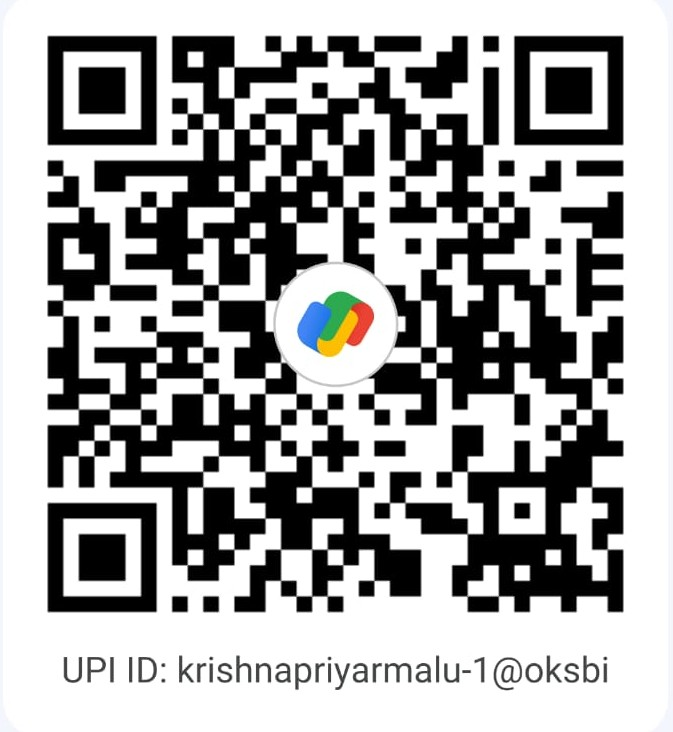
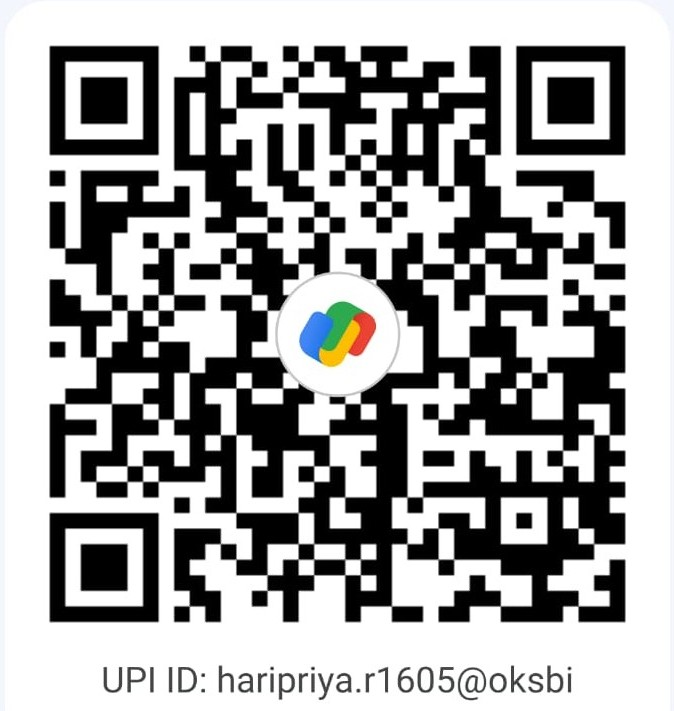
chore(membership) details updated

diff --git a/membership2025.html b/membership2025.html
@@ -40,8 +40,8 @@
 <body>
   <!-- bg animated dots -->
   <div style="z-index: 0">
-    <div class="starsec"></div>
-    <div class="starthird"></div>
+    <!-- <div class="starsec"></div> -->
+    <!-- <div class="starthird"></div> -->
     <div class="starfourth"></div>
     <div class="starfifth"></div>
   </div>
@@ -388,39 +388,43 @@
                   </h2>
                   <p style="font-size: 1.2em">
                     Account holder name:
-                    <span onclick="copyText(this)" style="cursor: pointer; user-select: all; font: inherit">Krishnapriya
-                      R</span><br />
+                    <span onclick="copyText(this)" style="cursor: pointer; user-select: all; font: inherit">Haripriya R</span><br />
                     IFSC code:
                     <span onclick="copyText(this)"
-                      style="cursor: pointer; user-select: all; font: inherit">SBIN0070259</span><br />
+                      style="cursor: pointer; user-select: all; font: inherit">SBIN0070547</span><br />
                     Account number:
                     <span onclick="copyText(this)"
-                      style="cursor: pointer; user-select: all; font: inherit">44148248108</span><br />
+                      style="cursor: pointer; user-select: all; font: inherit">40588254527</span><br />
                     UPI ID:
                     <span onclick="copyText(this)"
-                      style="cursor: pointer; user-select: all; font: inherit">krishnapriyarmalu-1@okicici</span>
+                      style="cursor: pointer; user-select: all; font: inherit">haripriya.r1605@oksbi</span>
                   </p>
 
                   <div class="qr-container">
-                    <button type="button" class="qr-toggle-btn" id="qrToggleBtn">Show QR Code </button>
+                    <button type="button" class="qr-toggle-btn" id="qrToggleBtn">Show QR Code</button>
+                  
                     <div class="qr-section" id="qrSection">
                       <div class="qr-card">
-                        <img src="assets/img/qr-code-for-membership.jpg" alt="payment QR" id="qrImage" class="qr-code">
+                  
+                        <!-- Added a wrapper to keep the QR code background white for easy scanning -->
+                        <div class="qr-code-wrapper">
+                          <img src="assets/img/qr-code-for-membership.jpg" alt="Payment QR" id="qrImage" class="qr-code">
+                        </div>
+                  
                         <div class="qr-actions">
-                          <button type="button" class="share-btn" id="shareBtn">
-                            <span></span>
-                            <img src="https://cdn-icons-png.flaticon.com/128/929/929610.png" width="24px" height="24px"
-                              alt="Share Icon">
+                          <button type="button" class="action-btn share-btn" id="shareBtn" title="Share QR">
+                            <img src="https://cdn-icons-png.flaticon.com/128/929/929610.png" alt="Share Icon">
                           </button>
-                          <button type="button" class="download-btn" id="downloadBtn">
-                            <span></span>
-                            <img src="https://cdn-icons-png.flaticon.com/64/724/724933.png" width="24px" height="24px"
-                              alt="Download Icon">
+                          <button type="button" class="action-btn download-btn" id="downloadBtn" title="Download QR">
+                            <img src="https://cdn-icons-png.flaticon.com/512/3185/3185874.png " alt="Download Icon">
                           </button>
                         </div>
+                  
                       </div>
                     </div>
                   </div>
+
+
                 </div>
                 <br>
 
@@ -623,8 +627,9 @@
 
         if (!isImage && !isPDF) {
           msg.textContent = 'Invalid file type. Please choose an image or PDF.';
-          msg.style.color = 'red';
+          msg.style.color = '#ff4c4c';
           fileLabelText.textContent = "Choose an Image or PDF";
+          alert("Invalid file type. Please choose an image or PDF");
           return;
         }
 
@@ -632,6 +637,7 @@
           msg.textContent = 'File size exceeds 4MB limit. Please choose a smaller file.';
           msg.style.color = 'red';
           fileLabelText.textContent = "Choose an Image or PDF";
+          alert("File size exceeds 4MB limit. Please choose a file smaller than 4MB.");
         } else {
           msg.textContent = 'File uploaded successfully. Please proceed with submission.';
           msg.style.color = 'rgb(29, 182, 18)';
@@ -803,44 +809,52 @@ https://script.google.com/macros/s/AKfycbz4JxgIQJyoqEN5JLdzrBymHDM8aAcHgF2v8tkO-
 
 
     //QR code 
-    const qrToggleBtn = document.getElementById("qrToggleBtn");
-    const qrSection = document.getElementById("qrSection");
-    const qrImage = document.getElementById("qrImage");
-    const shareBtn = document.getElementById("shareBtn");
-    const downloadBtn = document.getElementById("downloadBtn");
+    document.addEventListener("DOMContentLoaded", () => {
+        const qrToggleBtn = document.getElementById("qrToggleBtn");
+        const qrSection = document.getElementById("qrSection");
+        const qrImage = document.getElementById("qrImage");
+        const shareBtn = document.getElementById("shareBtn");
+        const downloadBtn = document.getElementById("downloadBtn");
 
-    qrToggleBtn.addEventListener('click', () => {
-      qrSection.classList.toggle("show");
-      qrToggleBtn.textContent = qrSection.classList.contains("show") ? "Hide QR Code" : "Show QR Code";
-    });
+        // Toggle QR visibility
+        qrToggleBtn.addEventListener("click", () => {
+          qrSection.classList.toggle("show");
+          qrToggleBtn.textContent = qrSection.classList.contains("show")
+            ? "Hide QR Code"
+            : "Show QR Code";
+        });
 
-    shareBtn.addEventListener('click', () => {
-      if (navigator.share) {
-        fetch(qrImage.src)
-          .then(response => response.blob())
-          .then(blob => {
-            const file = new File([blob], "assets/img/qr-code-for-membership.jpg", { type: blob.type });
-            navigator.share({
-              title: "Payment QR",
-              text: "Scan this QR to make payment",
-              files: [file]
-            }).catch(err => console.log("Share failed:", err));
-          })
-          .catch(err => console.log("Error fetching QR:", err));
-      }
-      else {
-        alert("Sharing is not supported on this browser");
-      }
-    });
+        // Native Web Share API
+        shareBtn.addEventListener("click", async () => {
+          if (navigator.share) {
+            try {
+              const response = await fetch(qrImage.src);
+              const blob = await response.blob();
+              const file = new File([blob], "payment-qr-code.jpg", { type: blob.type });
 
+              await navigator.share({
+                title: "Payment QR",
+                text: "Scan this QR code to make your payment.",
+                files: [file]
+              });
+            } catch (err) {
+              console.log("Error sharing/fetching QR:", err);
+            }
+          } else {
+            alert("Sharing is not supported on this browser.");
+          }
+        });
 
-    downloadBtn.addEventListener('click', () => {
-      const link = document.createElement("a");
-      link.download = "qrcodeDownload.jpg";
-      link.href = qrImage.src;
-      link.click();
-    });
-
+        // Download functionality
+        downloadBtn.addEventListener("click", () => {
+          const link = document.createElement("a");
+          link.download = "Payment_QR_Code.jpg";
+          link.href = qrImage.src;
+          document.body.appendChild(link); 
+          link.click();
+          document.body.removeChild(link);
+        });
+      });
 
 
 

diff --git a/assets/css/main.css b/assets/css/main.css
@@ -1907,126 +1907,123 @@ input[type="date"]::-webkit-calendar-picker-indicator {
 
 
 /* QR code */
-
 .qr-container {
-  max-width: 600px;
-  margin: 20px auto;
+  max-width: 100%;
   text-align: center;
+  font-family: inherit;
 }
 
+/* Main Toggle Button */
 .qr-toggle-btn {
   width: 100%;
-  padding: 12px;
-  font-size: 1.2em;
-  font-weight: bold;
-  background: #3cc3ec96;
-  color: white;
-  border: none;
+  padding: 14px;
+  font-size: 1.1em;
+  font-weight: 600;
+  background: rgba(60, 150, 200, 0.9);
+  color: #ffffff;
+  border: 1px solid rgba(255, 255, 255, 0.1);
   border-radius: 8px;
   cursor: pointer;
-  transition: background 0.4s ease;
+  transition: all 0.3s ease;
+  box-shadow: 0 4px 10px rgba(0, 0, 0, 0.2);
 }
 
 .qr-toggle-btn:hover {
-  background-color: #0650d8;
+  background: rgba(60, 150, 200, 1);
+  box-shadow: 0 6px 15px rgba(0, 0, 0, 0.4);
 }
 
+/* Collapsible Section */
 .qr-section {
   max-height: 0;
   overflow: hidden;
-  transition: max-height 0.5s ease, padding 0.3s ease;
+  transition: max-height 0.4s ease-in-out, margin-top 0.4s ease;
 }
 
 .qr-section.show {
   max-height: 600px;
-  padding-top: 5px;   
+  margin-top: 15px;
   display: flex;
   justify-content: center;
 }
 
+/* Glassmorphism Card Matching the Space Theme */
 .qr-card {
-  background: rgba(255, 255, 255, 0);
-  backdrop-filter: blur(10px);
+  backdrop-filter: blur(12px);
+  -webkit-backdrop-filter: blur(12px);
+  border: 1px solid rgba(255, 255, 255, 0.1);
   border-radius: 12px;
-  box-shadow: 0 8px 20px rgba(0,0,0,0.2);
-  padding: 20px;
+  padding: 25px;
   width: 100%;
-  max-width: 500px;
   display: flex;
   flex-direction: column;
   align-items: center;
+}
+
+/* Ensures QR code is readable against the dark background */
+.qr-code-wrapper {
+  background: #ffffff;
+  padding: 12px;
+  border-radius: 8px;
+  margin-bottom: 20px;
+  box-shadow: inset 0 0 5px rgba(0, 0, 0, 0.1);
 }
 
 .qr-code {
-  /* margin: 0 auto; */
-  width: 220px;
+  width: 200px;
   height: auto;
-  border: 2px solid #ddd;
-  border-radius: 12px;
-  margin-bottom: 12px;
+  display: block;
 }
 
+/* Action Buttons (Share & Download) */
 .qr-actions {
   display: flex;
-  justify-content: space-between;
-  width: 13rem;
-  gap: 10px;
-}
-
-.qr-actions button {
-  flex: 1;
-  padding: 10px;
-  font-size: 1em;
-  border: none;
-  border-radius: 6px;
-  cursor: pointer;
-  transition: background 0.3s ease;
-}
-
-#shareBtn {
-  background: rgba(193, 202, 250, 0.253);
-  color: white;
-  width: 10%;
-}
-#shareBtn:hover {
-  background: #3780e0c2;
-}
-
-#downloadBtn {
-  background: rgba(182, 190, 236, 0.253);
-  color: white;
-}
-#downloadBtn:hover {
-  background: #3eeb6985;
-}
-
-@media (max-width: 300px) {
-  .qr-actions button {
-    display: flex;
-    align-items: center;
-    justify-content: center;
-    font-size: 0; 
-    
-  }
-  .qr-actions button img {
-  width: 15px;
-  height: 15px;
-}
-.qr-card {
-  background: none;
-  backdrop-filter: none;
-  border-radius: 12px;
-  box-shadow: 0 8px 20px rgba(0,0,0,0.2);
-  padding: 20px;
+  justify-content: center;
   width: 100%;
-  max-width: 500px;
+  gap: 15px;
+}
+
+.action-btn {
   display: flex;
-  flex-direction: column;
   align-items: center;
+  justify-content: center;
+  flex: 1;
+  padding: 12px;
+  background: rgba(255, 255, 255, 0.1);
+  border: 1px solid rgba(255, 255, 255, 0.15);
+  border-radius: 8px;
+  cursor: pointer;
+  transition: all 0.3s ease;
 }
 
+.action-btn img {
+  width: 22px;
+  height: 22px;
+  filter: brightness(0) invert(1);
+  transition: transform 0.3s ease;
 }
 
+.action-btn:hover {
+  background: rgba(255, 255, 255, 0.25);
+  border-color: rgba(255, 255, 255, 0.4);
+}
+
+.action-btn:hover img {
+  transform: scale(1.1);
+}
+
+/* Mobile Responsiveness */
+@media (max-width: 400px) {
+
+
+  .qr-code {
+    width: 160px;
+  }
+
+  .action-btn {
+    padding: 10px;
+  }
+}
 
 /* QR code end */
 
